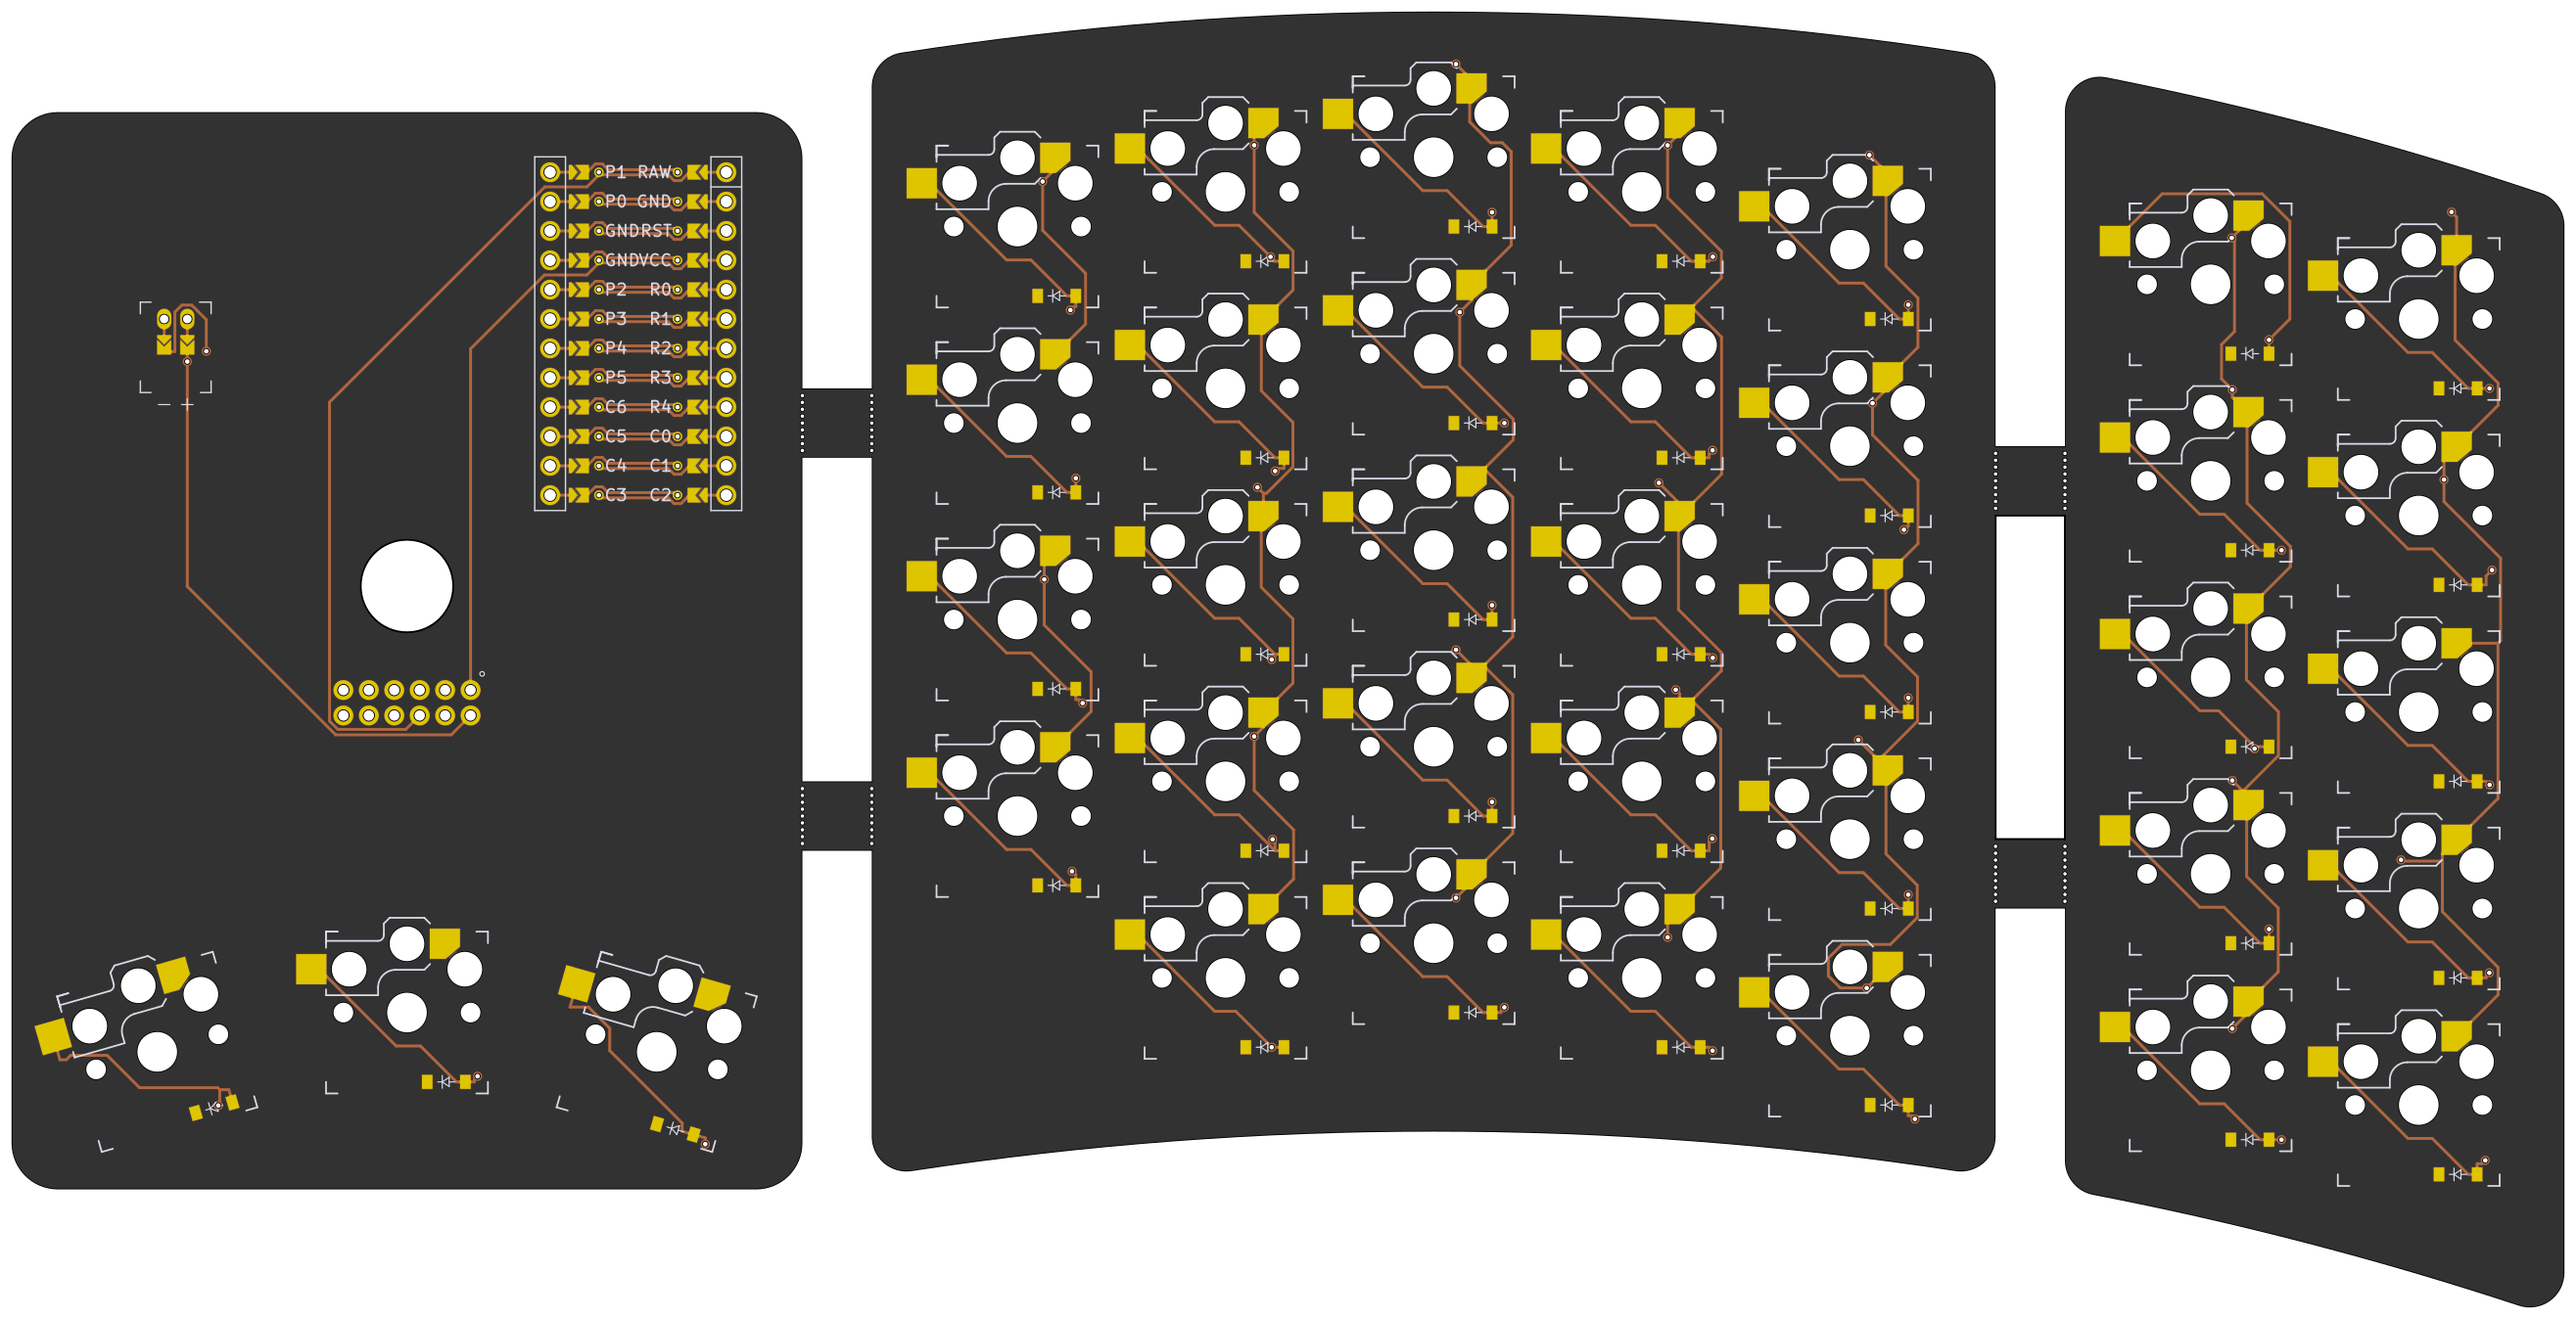
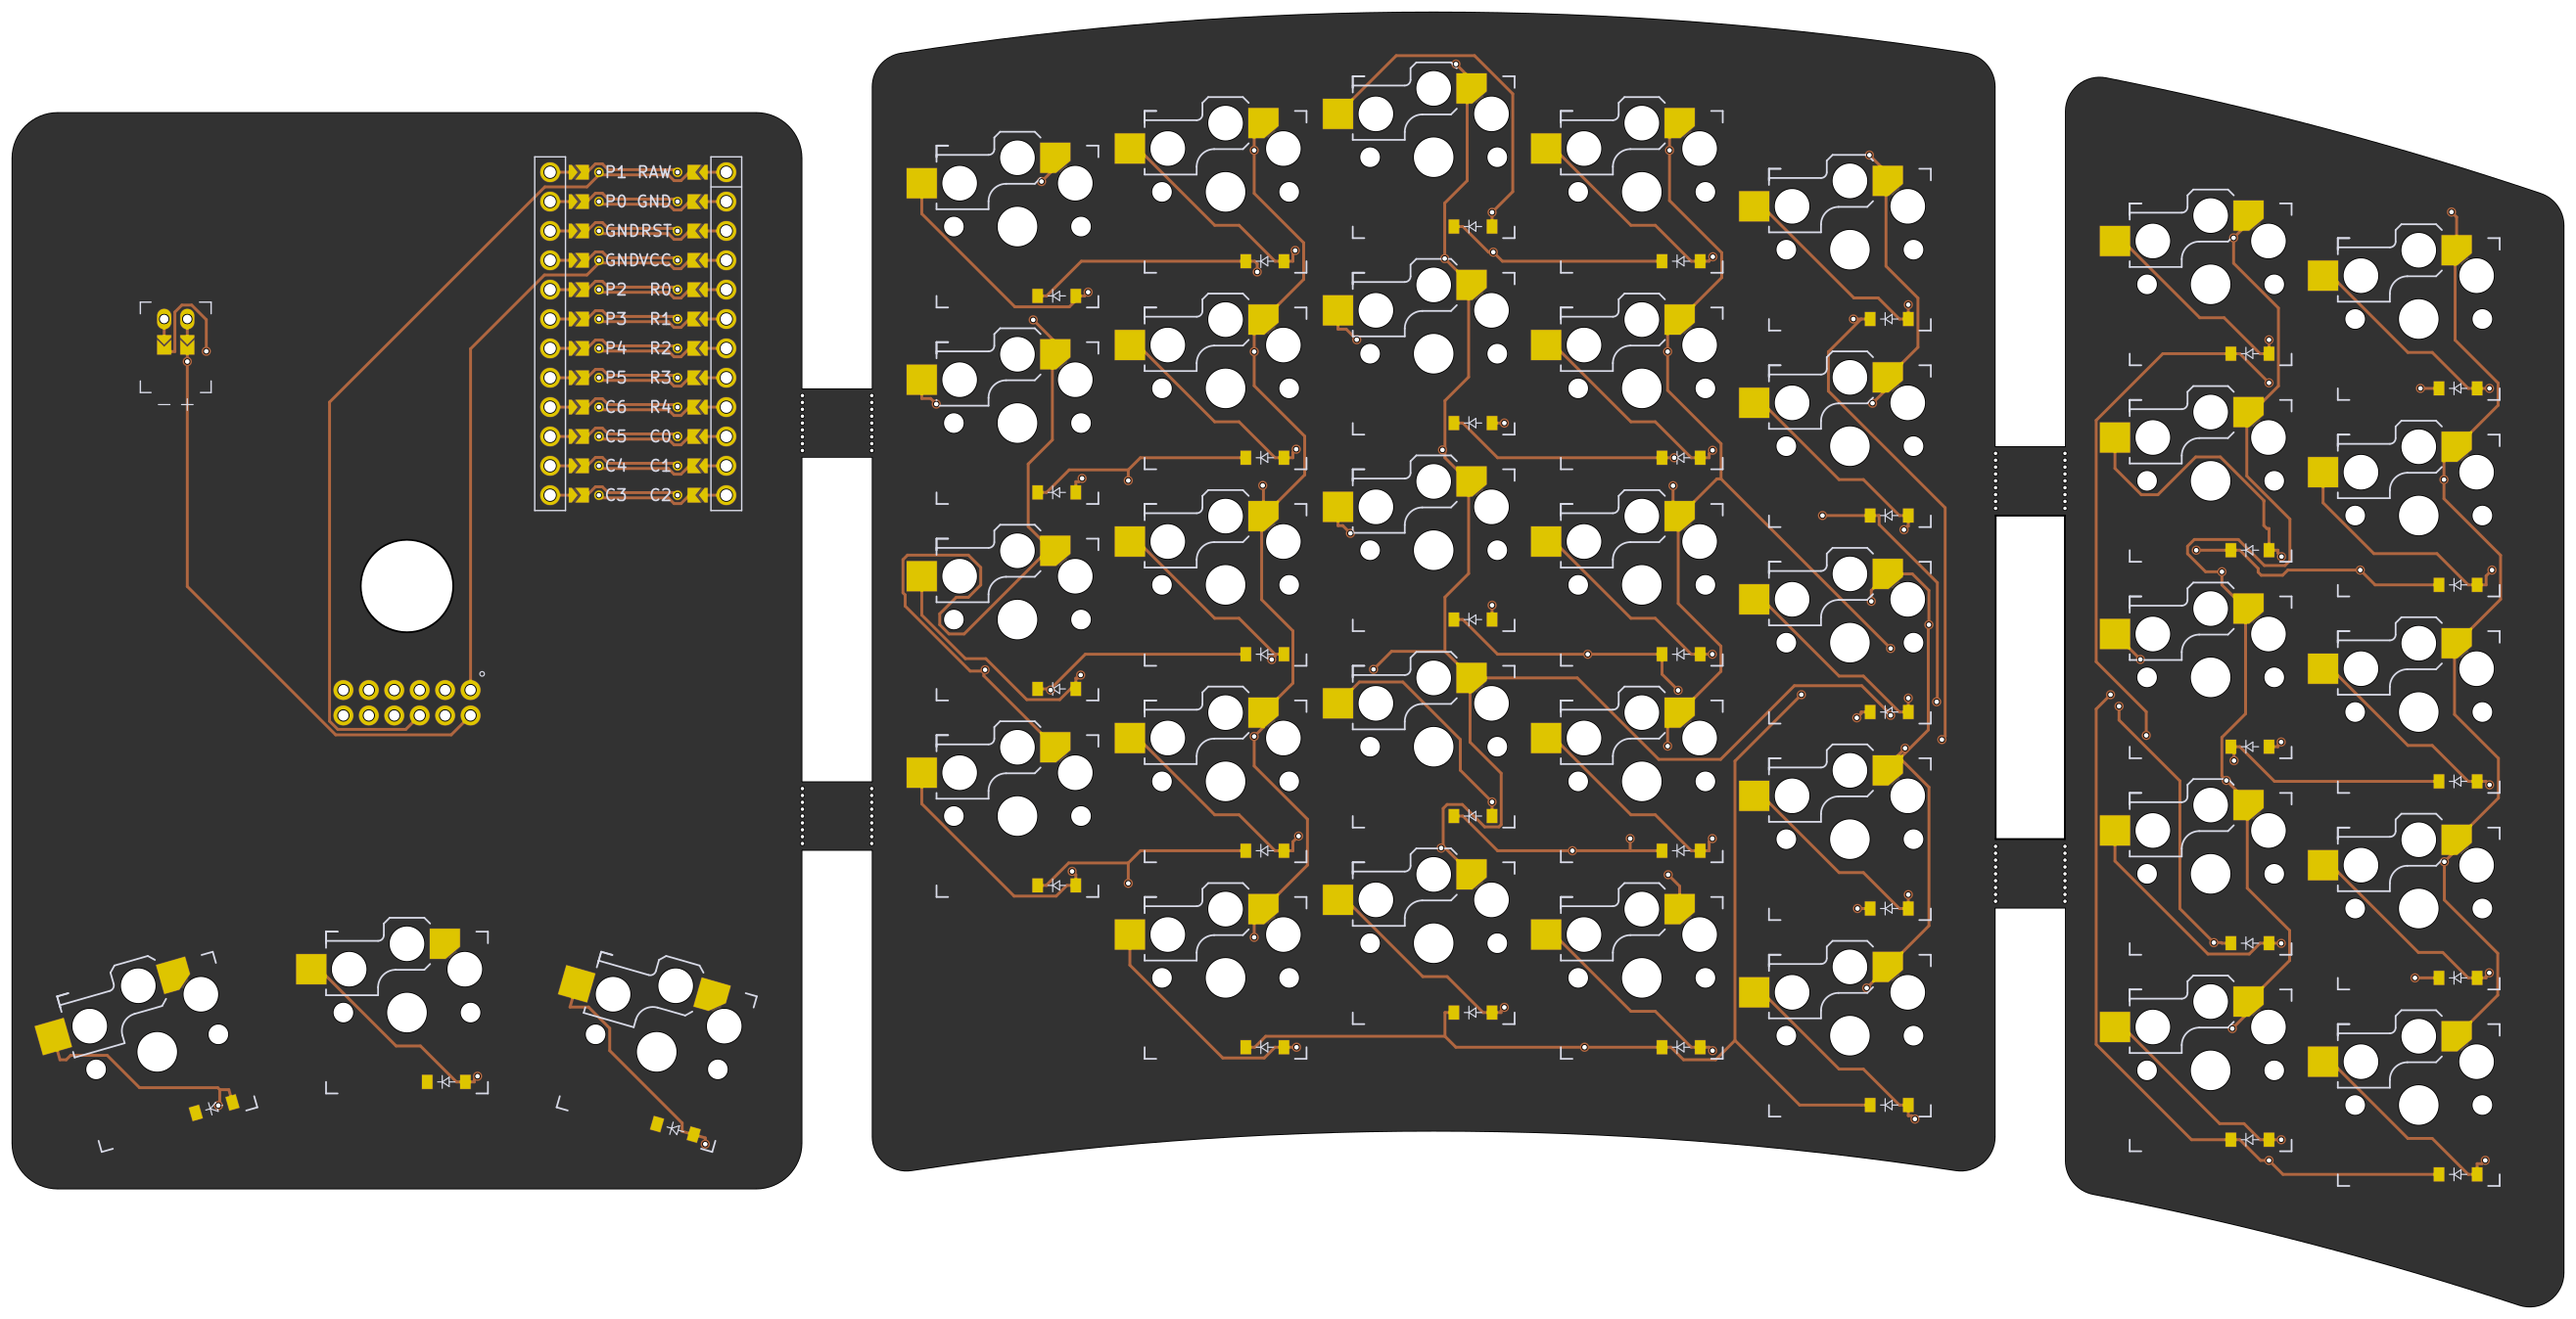
Adds a bit of auto-routing to and from the FFC connectors

diff --git a/input/footprints/ffc_12p_connector.js b/input/footprints/ffc_12p_connector.js
@@ -1,0 +1,60 @@
+module.exports = {
+  params: {
+    designator: 'RB', // for Rat Bite
+    P1: { type: 'net', value: 'P1' },
+    P2: { type: 'net', value: 'P2' },
+    P3: { type: 'net', value: 'P3' },
+    P4: { type: 'net', value: 'P4' },
+    P5: { type: 'net', value: 'P5' },
+    P6: { type: 'net', value: 'P6' },
+    P7: { type: 'net', value: 'P7' },
+    P8: { type: 'net', value: 'P8' },
+    P9: { type: 'net', value: 'P9' },
+    P10: { type: 'net', value: 'P10' },
+    P11: { type: 'net', value: 'P11' },
+    P12: { type: 'net', value: 'P12' },
+  },
+  body: p => {
+    const footprint = `
+    (module GCT_FFC3B07-12-T (layer F.Cu) (tedit 65F1514D)
+      (descr "tildewill:12 Position FFC, FPC Connector")
+      ${p.at /* parametric position */}
+      (attr smd)
+      (fp_text reference ${p.ref} (at -6.575 -4.585 0) (layer F.SilkS) ${p.ref_hide}
+        (effects (font (size 1.0 1.0) (thickness 0.15)))
+      )
+      (fp_text value GCT_FFC3B07-12-T (at 0.41 5.165 0) (layer F.Fab)
+        (effects (font (size 1.0 1.0) (thickness 0.15)))
+      )
+  (pad S1 smd rect (at 8.25 0.0  ${p.rot}) (size 2.5 2.8) (layers F.Cu F.Mask F.Paste) (solder_mask_margin 0.102))
+  (pad 1 smd rect (at 5.5 -2.45 ${p.rot}) (size 0.6 1.7) (layers F.Cu F.Mask F.Paste) (solder_mask_margin 0.102) ${p.P1.str})
+  (pad 2 smd rect (at 4.5 -2.45 ${p.rot}) (size 0.6 1.7) (layers F.Cu F.Mask F.Paste) (solder_mask_margin 0.102) ${p.P2.str})
+  (pad 3 smd rect (at 3.5 -2.45 ${p.rot}) (size 0.6 1.7) (layers F.Cu F.Mask F.Paste) (solder_mask_margin 0.102) ${p.P3.str})
+  (pad 4 smd rect (at 2.5 -2.45 ${p.rot}) (size 0.6 1.7) (layers F.Cu F.Mask F.Paste) (solder_mask_margin 0.102) ${p.P4.str})
+  (pad 5 smd rect (at 1.5 -2.45 ${p.rot}) (size 0.6 1.7) (layers F.Cu F.Mask F.Paste) (solder_mask_margin 0.102) ${p.P5.str})
+  (pad 6 smd rect (at 0.5 -2.45 ${p.rot}) (size 0.6 1.7) (layers F.Cu F.Mask F.Paste) (solder_mask_margin 0.102) ${p.P6.str})
+  (pad 7 smd rect (at -0.5 -2.45 ${p.rot}) (size 0.6 1.7) (layers F.Cu F.Mask F.Paste) (solder_mask_margin 0.102) ${p.P7.str})
+  (pad 8 smd rect (at -1.5 -2.45 ${p.rot}) (size 0.6 1.7) (layers F.Cu F.Mask F.Paste) (solder_mask_margin 0.102) ${p.P8.str})
+  (pad 9 smd rect (at -2.5 -2.45 ${p.rot}) (size 0.6 1.7) (layers F.Cu F.Mask F.Paste) (solder_mask_margin 0.102) ${p.P9.str})
+  (pad 10 smd rect (at -3.5 -2.45 ${p.rot}) (size 0.6 1.7) (layers F.Cu F.Mask F.Paste) (solder_mask_margin 0.102) ${p.P10.str})
+  (pad 11 smd rect (at -4.5 -2.45 ${p.rot}) (size 0.6 1.7) (layers F.Cu F.Mask F.Paste) (solder_mask_margin 0.102) ${p.P11.str})
+  (pad 12 smd rect (at -5.5 -2.45 ${p.rot}) (size 0.6 1.7) (layers F.Cu F.Mask F.Paste) (solder_mask_margin 0.102) ${p.P12.str})
+  (pad S2 smd rect (at -8.25 0.0 ${p.rot}) (size 2.5 2.8) (layers F.Cu F.Mask F.Paste) (solder_mask_margin 0.102))
+  (fp_line (start -9.5 -1.35) (end 9.5 -1.35) (layer F.Fab) (width 0.1))
+  (fp_line (start 9.5 -1.35) (end 9.5 3.95) (layer F.Fab) (width 0.1))
+  (fp_line (start 9.5 3.95) (end -9.5 3.95) (layer F.Fab) (width 0.1))
+  (fp_line (start -9.5 3.95) (end -9.5 -1.35) (layer F.Fab) (width 0.1))
+  (fp_line (start -9.5 1.8) (end -9.5 3.95) (layer F.SilkS) (width 0.2))
+  (fp_line (start -9.5 3.95) (end 9.5 3.95) (layer F.SilkS) (width 0.2))
+  (fp_line (start 9.5 3.95) (end 9.5 1.8) (layer F.SilkS) (width 0.2))
+  (fp_line (start -9.75 -3.55) (end -9.75 4.2) (layer F.CrtYd) (width 0.05))
+  (fp_line (start -9.75 4.2) (end 9.75 4.2) (layer F.CrtYd) (width 0.05))
+  (fp_line (start 9.75 4.2) (end 9.75 -3.55) (layer F.CrtYd) (width 0.05))
+  (fp_line (start 9.75 -3.55) (end -9.75 -3.55) (layer F.CrtYd) (width 0.05))
+  (fp_circle (center 5.5 -4.05) (end 5.6 -4.05) (layer F.Fab) (width 0.2))
+  (fp_circle (center 5.5 -4.05) (end 5.6 -4.05) (layer F.SilkS) (width 0.2))
+    )
+    `
+    return footprint;
+  }
+}
